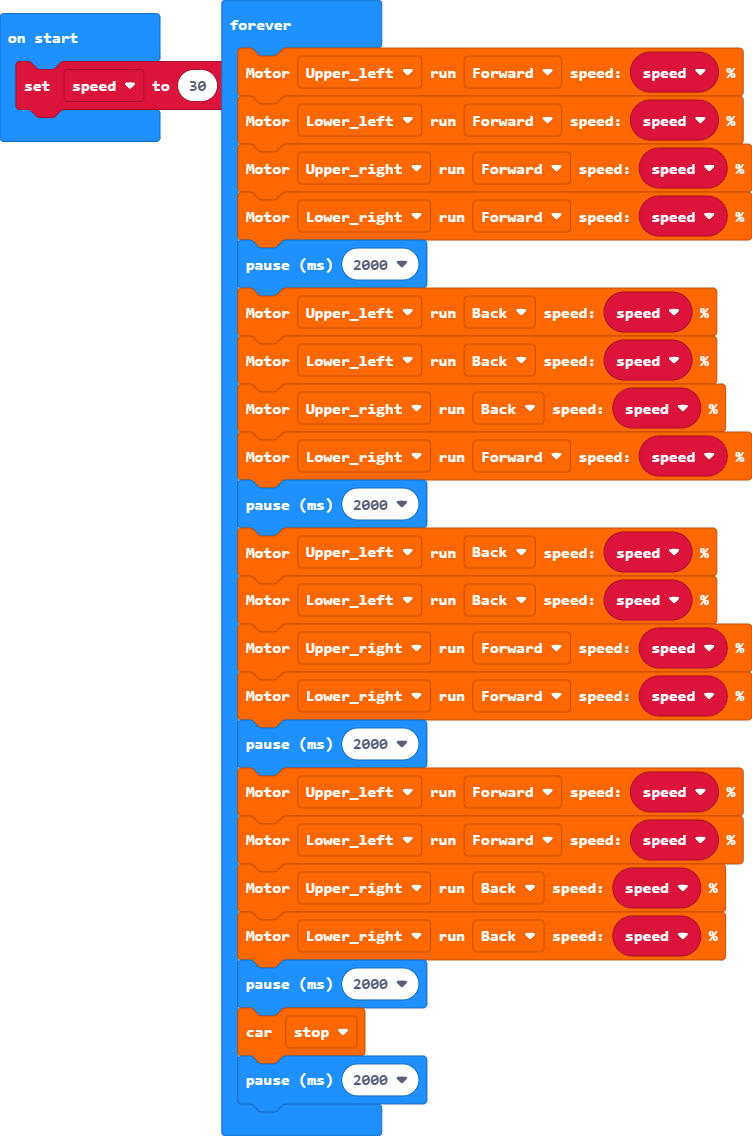
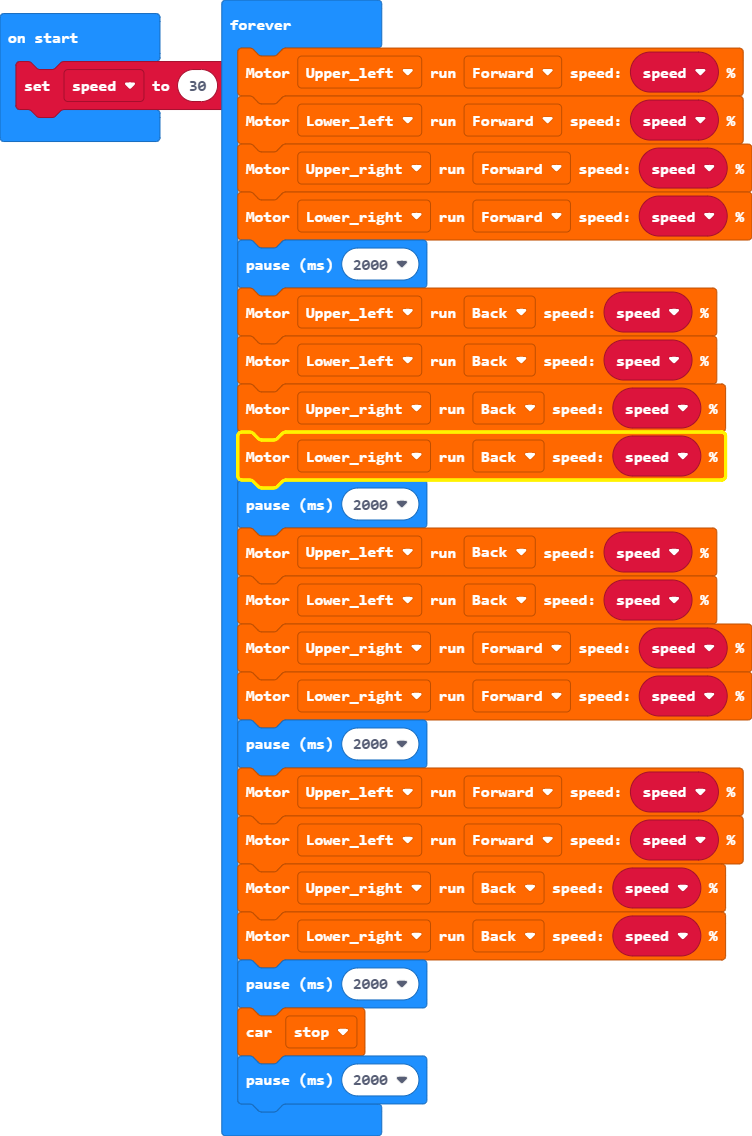
Update main.blocks, main.ts

Changed region(s): [[0.3059, 0.3697, 1.0, 0.4313]]

diff --git a/main.ts b/main.ts
@@ -8,7 +8,7 @@ basic.forever(function () {
     mecanumRobot.Motor(LR.Upper_left, MD.Back, speed)
     mecanumRobot.Motor(LR.Lower_left, MD.Back, speed)
     mecanumRobot.Motor(LR.Upper_right, MD.Back, speed)
-    mecanumRobot.Motor(LR.Lower_right, MD.Forward, speed)
+    mecanumRobot.Motor(LR.Lower_right, MD.Back, speed)
     basic.pause(2000)
     mecanumRobot.Motor(LR.Upper_left, MD.Back, speed)
     mecanumRobot.Motor(LR.Lower_left, MD.Back, speed)
